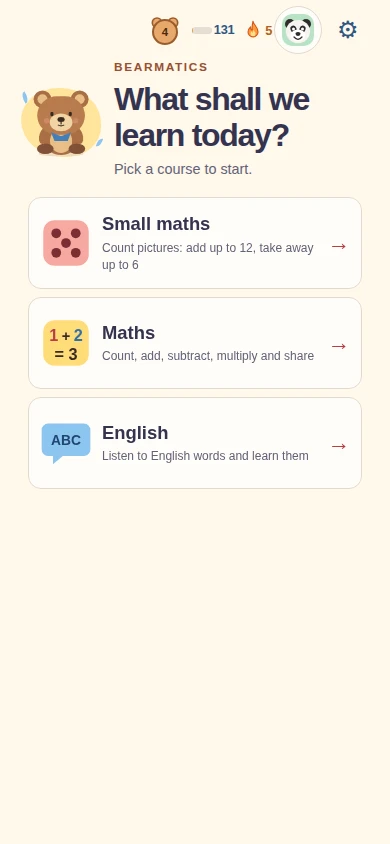
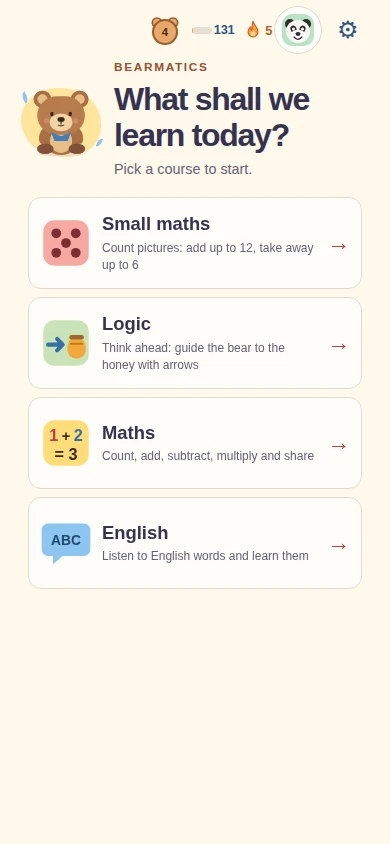
SCRUM-262: About page (Logic course SK/EN, demo/Show me line, Logic always whole points, Logic screenshot, four-course screenshot), ages 5–9 in README and About

diff --git a/src/about/aboutCopy.ts b/src/about/aboutCopy.ts
@@ -5,6 +5,7 @@ export const SHOTS = [
   'course',
   'small-maths',
   'take-away',
+  'logic',
   'english',
   'summary',
   'app-bar',
@@ -27,12 +28,14 @@ export const aboutCopy = {
     title: 'About Bearmatics',
     pageTitle: 'About Bearmatics',
     intro:
-      'Bearmatics is a free learning app for children aged 6–9, in Slovak and English. A friendly bear guides your child through short lessons in maths and English. It runs in a web browser on phones, tablets, foldable phones and computers – nothing to install, no ads.',
+      'Bearmatics is a free learning app for children aged 5–9, in Slovak and English. A friendly bear guides your child through short lessons in maths, logic and English. It runs in a web browser on phones, tablets, foldable phones and computers – nothing to install, no ads.',
     languages: 'Language / Jazyk',
     play: "Let's play",
     opensFull: '(full size, opens in a new tab)',
     coursesTitle: 'Courses',
     smallLead: 'with pictures for the youngest',
+    logicLead: 'think ahead and plan the way',
+    logicDetail: 'plan the way with arrows, up to 4 steps',
     englishLead: '21 school words spoken in a British voice',
     levelDetails: {
       0: 'add up to 6',
@@ -51,6 +54,7 @@ export const aboutCopy = {
       'Choose a level and 5, 10 or 20 exercises.',
       'Answer with the on-screen number pad or the keyboard. A wrong answer can simply be tried again.',
       'In Maths, hints show the problem in smaller steps.',
+      'In Logic, your child plans the bear’s way to the honey with arrows and then presses Go. A short picture demo shows how; Show me plays it again.',
       'Exercises that needed more tries come back in a short review round.',
       'The summary shows how many were right on the first try without hints.',
       'It also shows how long the lesson took and about how long one exercise took. The time is not saved anywhere.',
@@ -60,7 +64,7 @@ export const aboutCopy = {
     signIn: [
       'Everything works without an account.',
       'Sign in with Google or a username and password to collect points: 1 point for each exercise right on the first try in a finished lesson.',
-      'An easy level played again on one day gives fewer points: from the 3rd play half, from the 5th play a quarter (rounded up). The first play of the day of a harder level (Maths levels 4–7, level 3 of Small maths and English) gives 1.5 times the points. A small sign in the level menu shows this for the next play: ★, 1/2 or 1/4.',
+      'An easy level played again on one day gives fewer points: from the 3rd play half, from the 5th play a quarter (rounded up). The first play of the day of a harder level (Maths levels 4–7, level 3 of Small maths and English) gives 1.5 times the points. Logic always gives whole points. A small sign in the level menu shows this for the next play: ★, 1/2 or 1/4.',
       'Points grow your bear badge. Play every day to build a streak; missed days freeze it and points can unlock it.',
       'A leaderboard shows nickname, bear, bear badge, streak and points of players; you can hide yourself in the profile.',
       'The profile is only a nickname and a bear your child dresses from parts (fur, background, something for the head, neck and eyes); the bear look is stored as five numbers, no photo or real name. The account can be deleted any time.',
@@ -74,7 +78,7 @@ export const aboutCopy = {
     shots: {
       course: {
         caption: 'Choosing a course',
-        alt: 'Bearmatics on a phone: the bear and the three courses Small maths, Maths and English.',
+        alt: 'Bearmatics on a phone: the bear and the four courses Small maths, Logic, Maths and English.',
       },
       'small-maths': {
         caption: 'Small maths: count the pictures',
@@ -83,6 +87,10 @@ export const aboutCopy = {
       'take-away': {
         caption: 'Small maths: take away',
         alt: 'A take-away exercise: pictures in a basket, some of them taken out, and the number pad.',
+      },
+      logic: {
+        caption: 'Logic: guide the bear to the honey',
+        alt: 'A Logic exercise: a 4 by 4 grid with the bear and a honey pot, three planned arrows, the arrow buttons and Go.',
       },
       english: {
         caption: 'English: listen and choose',
@@ -106,12 +114,14 @@ export const aboutCopy = {
     title: 'O aplikácii Bearmatics',
     pageTitle: 'O aplikácii Bearmatics',
     intro:
-      'Bearmatics je bezplatná aplikácia na učenie pre deti od 6 do 9 rokov, v slovenčine a angličtine. Priateľský medveď sprevádza dieťa krátkymi lekciami matematiky a angličtiny. Funguje vo webovom prehliadači na mobile, tablete, skladacom telefóne aj počítači – bez inštalácie a bez reklám.',
+      'Bearmatics je bezplatná aplikácia na učenie pre deti od 5 do 9 rokov, v slovenčine a angličtine. Priateľský medveď sprevádza dieťa krátkymi lekciami matematiky, logiky a angličtiny. Funguje vo webovom prehliadači na mobile, tablete, skladacom telefóne aj počítači – bez inštalácie a bez reklám.',
     languages: 'Language / Jazyk',
     play: 'Poď hrať',
     opensFull: '(plná veľkosť, otvorí sa na novej karte)',
     coursesTitle: 'Kurzy',
     smallLead: 's obrázkami pre najmenších',
+    logicLead: 'mysli dopredu a naplánuj cestu',
+    logicDetail: 'naplánuj cestu šípkami, najviac 4 kroky',
     englishLead: '21 slov zo školy v britskej výslovnosti',
     levelDetails: {
       0: 'sčítanie s obrázkami do 6',
@@ -130,6 +140,7 @@ export const aboutCopy = {
       'Vyber úroveň a 5, 10 alebo 20 príkladov.',
       'Odpoveď napíš číselníkom na obrazovke alebo klávesnicou. Nesprávnu odpoveď môžeš skúsiť znova.',
       'V Matematike pomôcky ukážu príklad v menších krokoch.',
+      'V Logike dieťa naplánuje šípkami cestu medveďa k medu a potom stlačí Choď. Krátka obrázková ukážka ukáže ako; tlačidlo Ukáž mi ju zopakuje.',
       'Príklady, ktoré potrebovali viac pokusov, sa vrátia v krátkom opakovaní.',
       'Na konci vidíš, koľko príkladov bolo správne na prvý pokus bez pomôcky.',
       'Uvidíš aj, ako dlho lekcia trvala a koľko asi trval jeden príklad. Čas sa nikam neukladá.',
@@ -139,7 +150,7 @@ export const aboutCopy = {
     signIn: [
       'Všetko funguje aj bez účtu.',
       'Prihlásenie cez Google alebo menom a heslom zbiera body: 1 bod za každý príklad správne na prvý pokus v dokončenej lekcii.',
-      'Ľahká úroveň zahraná v jeden deň znova dáva menej bodov: od 3. hry polovicu, od 5. hry štvrtinu (zaokrúhlené nahor). Prvá hra dňa na ťažšej úrovni (Matematika úrovne 4–7, úroveň 3 v Malej matematike a Angličtine) dáva 1,5-násobok bodov. Malá značka v ponuke úrovní to ukazuje pre ďalšiu hru: ★, 1/2 alebo 1/4.',
+      'Ľahká úroveň zahraná v jeden deň znova dáva menej bodov: od 3. hry polovicu, od 5. hry štvrtinu (zaokrúhlené nahor). Prvá hra dňa na ťažšej úrovni (Matematika úrovne 4–7, úroveň 3 v Malej matematike a Angličtine) dáva 1,5-násobok bodov. Logika dáva vždy celé body. Malá značka v ponuke úrovní to ukazuje pre ďalšiu hru: ★, 1/2 alebo 1/4.',
       'Body zväčšujú medvedí odznak. Hraj každý deň a buduj sériu; vynechané dni ju zmrazia a body ju môžu odomknúť.',
       'Rebríček ukazuje prezývku, medveďa, medvedí odznak, sériu a body hráčov; v profile sa môžeš skryť.',
       'Profil je len prezývka a medvedík, ktorého si dieťa oblečie z dielikov (srsť, pozadie, niečo na hlavu, krk a oči); vzhľad medvedíka sa ukladá ako päť čísel, žiadna fotka ani skutočné meno. Účet sa dá kedykoľvek zmazať.',
@@ -153,7 +164,7 @@ export const aboutCopy = {
     shots: {
       course: {
         caption: 'Výber kurzu',
-        alt: 'Bearmatics na mobile: medveď a tri kurzy Malá matematika, Matematika a Angličtina.',
+        alt: 'Bearmatics na mobile: medveď a štyri kurzy Malá matematika, Logika, Matematika a Angličtina.',
       },
       'small-maths': {
         caption: 'Malá matematika: počítame obrázky',
@@ -162,6 +173,10 @@ export const aboutCopy = {
       'take-away': {
         caption: 'Malá matematika: odoberáme',
         alt: 'Príklad na odoberanie: obrázky v košíku, niektoré vybrané, a číselník.',
+      },
+      logic: {
+        caption: 'Logika: priveď medveďa k medu',
+        alt: 'Príklad z Logiky: mriežka 4 krát 4 s medveďom a hrncom medu, tri naplánované šípky, tlačidlá so šípkami a Choď.',
       },
       english: {
         caption: 'Angličtina: počúvaj a vyber',

diff --git a/tests/e2e/about.spec.ts b/tests/e2e/about.spec.ts
@@ -154,7 +154,7 @@ async function expectReadableShots(page: Page, oneRow: boolean) {
   const boxes = await page
     .locator('main figure img')
     .evaluateAll((images) => images.map((image) => image.getBoundingClientRect().toJSON()));
-  expect(boxes).toHaveLength(7);
+  expect(boxes).toHaveLength(8);
   for (const box of boxes) {
     expect(box.width).toBeGreaterThanOrEqual(260);
     expect(box.width).toBeLessThanOrEqual(300);
@@ -166,7 +166,7 @@ async function expectReadableShots(page: Page, oneRow: boolean) {
 /** Scrolls every screenshot into view (they load lazily) and waits until each has loaded. */
 async function expectImagesLoaded(page: Page, lang: Lang) {
   const images = page.locator('main img');
-  await expect(images).toHaveCount(7);
+  await expect(images).toHaveCount(8);
   for (const image of await images.all()) {
     await image.scrollIntoViewIfNeeded();
     await expect
@@ -382,9 +382,9 @@ for (const lang of LANGS)
     const links = await page
       .locator('a[href]')
       .evaluateAll((list) => list.map((a) => a.getAttribute('href')));
-    // Bearmatics, Slovenčina, English, play (bar), the 7 full-size screenshots, What we store,
+    // Bearmatics, Slovenčina, English, play (bar), the 8 full-size screenshots, What we store,
     // e-mail.
-    const shots = ['course', 'small-maths', 'take-away', 'english', 'summary', 'app-bar'];
+    const shots = ['course', 'small-maths', 'take-away', 'logic', 'english', 'summary', 'app-bar'];
     expect(links).toEqual([
       `/?lang=${lang}`,
       '/about/sk',
@@ -392,9 +392,9 @@ for (const lang of LANGS)
       `/?lang=${lang}`,
       ...[...shots, 'leaderboard'].map((shot) => `/about/${lang}/${shot}.webp`),
       '#about-store',
-      links[12],
+      links[13],
     ]);
-    expect(links[12]).toMatch(/^mailto:/);
+    expect(links[13]).toMatch(/^mailto:/);
     const reached: (string | null)[] = [];
     // WebKit-style "Tab skips links" does not apply to Chromium/Firefox on Linux.
     for (let i = 0; i < links.length; i++) {
@@ -448,7 +448,7 @@ for (const lang of LANGS)
 test('a screenshot opens its full-size file in a new tab (O1)', async ({ page, context }) => {
   await page.setViewportSize({ width: 390, height: 844 });
   await page.goto('/about/sk');
-  const link = page.getByRole('link', { name: /otvorí sa na novej karte/ }).nth(6);
+  const link = page.getByRole('link', { name: /otvorí sa na novej karte/ }).nth(7);
   await expect(link).toHaveAttribute('href', '/about/sk/leaderboard.webp');
   await link.scrollIntoViewIfNeeded();
   const [tab] = await Promise.all([context.waitForEvent('page'), link.click()]);
@@ -491,7 +491,7 @@ for (const [width, height, zoom] of [
     await page.locator('a[href^="/about/sk"]').first().focus();
     await page.keyboard.press('Tab'); // English
     await page.keyboard.press('Tab'); // play
-    for (let i = 0; i < 7; i++) {
+    for (let i = 0; i < 8; i++) {
       await page.keyboard.press('Tab');
       await expect(page.locator(':focus')).toHaveClass(/about-shot-link/);
       await expect
@@ -499,7 +499,7 @@ for (const [width, height, zoom] of [
         .toBeGreaterThan(0);
       await expectClearOfBar(page);
     }
-    for (let i = 5; i >= 0; i--) {
+    for (let i = 6; i >= 0; i--) {
       await page.keyboard.press('Shift+Tab');
       await expect(page.locator(':focus')).toHaveAttribute(
         'href',

diff --git a/src/about/About.test.tsx b/src/about/About.test.tsx
@@ -69,15 +69,22 @@ describe.each(['en', 'sk'] as const)('About page in %s', (language) => {
     expect(screen.getByRole('main')).toHaveTextContent(a.intro);
   });
 
-  it('shows the seven screenshots of its language, lazily, sized and with alt text', () => {
+  it('shows the eight screenshots of its language, lazily, sized and with alt text', () => {
     render(<AboutPage language={language} />);
     const images = screen.getAllByRole('img');
     expect(images.map((image) => image.getAttribute('src'))).toEqual(
-      ['course', 'small-maths', 'take-away', 'english', 'summary', 'app-bar', 'leaderboard'].map(
-        (shot) => `/about/${language}/${shot}.webp`,
-      ),
+      [
+        'course',
+        'small-maths',
+        'take-away',
+        'logic',
+        'english',
+        'summary',
+        'app-bar',
+        'leaderboard',
+      ].map((shot) => `/about/${language}/${shot}.webp`),
     );
-    expect(SHOTS).toHaveLength(7);
+    expect(SHOTS).toHaveLength(8);
     for (const [index, image] of images.entries()) {
       expect(image).toHaveAttribute('loading', 'lazy');
       expect(image).toHaveAttribute('width', '390');
@@ -85,7 +92,7 @@ describe.each(['en', 'sk'] as const)('About page in %s', (language) => {
       expect(image).toHaveAccessibleName(a.shots[SHOTS[index]].alt);
       expect(a.shots[SHOTS[index]].alt.length).toBeGreaterThan(30);
     }
-    expect(new Set(images.map((image) => image.getAttribute('alt'))).size).toBe(7);
+    expect(new Set(images.map((image) => image.getAttribute('alt'))).size).toBe(8);
   });
 
   it('links every screenshot to its full-size file in a new tab (O1)', () => {
@@ -119,8 +126,17 @@ describe.each(['en', 'sk'] as const)('About page in %s', (language) => {
       expect(items).toContain(`${t.level} ${shown}: ${t.levels[value]} (${a.levelDetails[value]})`);
     for (const value of [1, 2, 3] as const)
       expect(items).toContain(`${t.level} ${value}: ${t.englishLevels[value]}`);
-    for (const course of [t.smallCourse, t.mathCourse, t.englishCourse])
+    // SCRUM-262: Logic, level 1.
+    expect(items).toContain(`${t.level} 1: ${t.logicLevels[1]} (${a.logicDetail})`);
+    for (const course of [t.smallCourse, t.logicCourse, t.mathCourse, t.englishCourse])
       expect(screen.getByText(course, { selector: 'strong' })).toBeInTheDocument();
+  });
+
+  it('names the age 5–9 (SCRUM-262)', () => {
+    render(<AboutPage language={language} />);
+    expect(screen.getByRole('main')).toHaveTextContent(
+      language === 'en' ? 'children aged 5–9' : 'pre deti od 5 do 9 rokov',
+    );
   });
 
   it('shows the full "What we store" list of the profile', () => {

diff --git a/src/about/AboutPage.tsx b/src/about/AboutPage.tsx
@@ -182,6 +182,10 @@ export default function AboutPage({ language }: { language: Language }) {
               </ul>
             </li>
             <li>
+              <strong>{t.logicCourse}</strong>, {a.logicLead}:
+              <ul>{level(1, t.logicLevels[1], a.logicDetail)}</ul>
+            </li>
+            <li>
               <strong>{t.mathCourse}</strong>:
               <ul>
                 {MATH_LEVELS.map(({ value, shown }) =>
@@ -200,7 +204,7 @@ export default function AboutPage({ language }: { language: Language }) {
               </ul>
             </li>
           </ul>
-          <Shots language={language} shots={['small-maths', 'take-away', 'english']} />
+          <Shots language={language} shots={['small-maths', 'take-away', 'logic', 'english']} />
         </section>
 
         <section aria-labelledby="about-lesson">

diff --git a/tests/e2e-accounts/about-pages.spec.ts b/tests/e2e-accounts/about-pages.spec.ts
@@ -21,7 +21,7 @@ test('the About page opens from the real server and its screenshots are served',
     .evaluateAll((images) =>
       images.map((image) => (image as HTMLImageElement).getAttribute('src')!),
     );
-  expect(sources).toHaveLength(7);
+  expect(sources).toHaveLength(8);
   for (const source of sources) {
     const response = await page.request.get(source);
     expect(response.status(), source).toBe(200);

diff --git a/README.md b/README.md
@@ -1,6 +1,6 @@
 # Bearmatics 🐻
 
-A child-friendly math practice web app for ages **6–9**, in **Slovak and English**, with selectable learning levels, missing-number exercises, progressive counting hints, and animated bear/sound feedback.
+A child-friendly math practice web app for ages **5–9**, in **Slovak and English**, with selectable learning levels, missing-number exercises, progressive counting hints, and animated bear/sound feedback.
 
 **Status:** MVP scope approved in [specification #6](https://github.com/PeterMacko/Bearmatics/issues/6). The foundation (#7), math engine (#8), and interactive practice interface (#9) are implemented and verified in the accepted Chromium/Firefox QA scope (#12). Choose a level and 5/10/20 exercises, practise with retries and explicit Next, switch Slovak/English without resetting progress, and view a completion summary. Progressive hints (#10), sound and expressive bear reactions (#11) are implemented and covered by accepted QA. The original bear has neutral/happy/gently sad states, short reactions, and reduced-motion alternatives. Peter accepted scoped independent QA in #12. Feature-branch publication is not a merge or production deployment.
 
